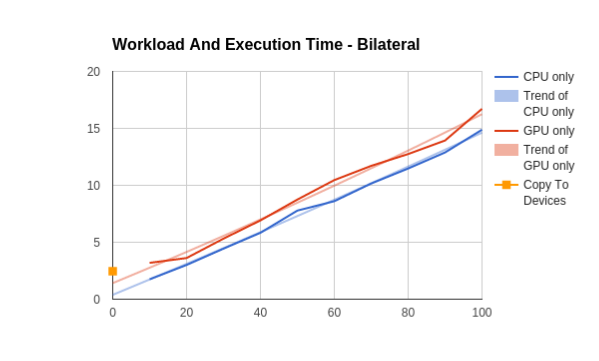
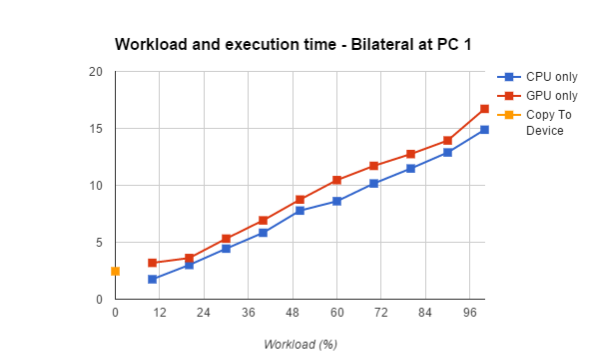
add new photos and Fluidic CL

diff --git a/index.html b/index.html
@@ -28,17 +28,23 @@
         </section>
         <section>
           <h1>Outline</h1>
-          <h3> </h3><a href="#/2">Introduction</a>
-          <h3> </h3><a href="#/3">Introduction-Halide</a>
-          <h3> </h3><a href="#/4">Introduction-OpenCL</a>
-          <h3> </h3><a href="#/5">System Architecture</a>
-          <h3> </h3><a href="#/6">Implement</a>
-          <h3> </h3><a href="#/7">Experiment Result</a>
-          <h3> </h3><a href="#/8">Conclusion</a>
+          <h3> </h3><a href="#/2">Motivation</a>
+          <h3> </h3><a href="#/3">Background</a>
+          <h3> </h3><a href="#/4">Implementation</a>
+          <h3> </h3><a href="#/5">Experiment Result</a>
+          <h3> </h3><a href="#/6">Conclusion</a>
         </section>
         <section>
           <section>
-            <h1>Introduction</h1>
+            <h1>Motivation</h1>
+          </section>
+          <section>
+            <h3>Halide is a new language</h3>
+            <h4>which is designed to make it <span class="fragment highlight-red"><strong>easier</strong></span> to write <span class="fragment highlight-blue"><strong>high-performance</strong></span> image processing code.</h4>
+          </section>
+          <section>
+            <h3>It can support CPU and GPU backend.</h3>
+            <h4>So we want to make a <span class="fragment highlight-blue"><strong>synergistic framework</strong></span> as Halide extension </h4>
           </section>
           <section>
             <h4>It’s several research target on synergistically computing </h4>
@@ -58,13 +64,15 @@
               <li class="fragment highlight-red">Time-consuming</li>
             </ul>
           </section>
-          <section>
-            <p>To solve this problem,<strong>I</strong> decide to use <strong>Halide</strong> a new language to reduce the difficulty of programing.</p>
-          </section>
         </section>
         <section>
           <section>
-            <h1>Introduction-Halide</h1>
+            <h1>Background </h1>
+            <ul> 
+              <li>Halide</li>
+              <li>OpenCL</li>
+              <li>Related work - FluidiCL</li>
+            </ul>
           </section>
           <section>
             <h2>Halide decouple algorithm from schedule</h2>
@@ -88,7 +96,7 @@
           </section>
           <section> 
             <h2>Native C++ Code</h2>
-            <pre><code class="cpp" data-trim contenteditable style="font-size: 18px;">
+            <pre><code class="cpp" data-trim contenteditable style="font-size: 14px;">
 Image&lt;uint16_t&gt; blur(Image&lt;uint16_t&gt; in) {
   Image&lt;uint16_t&gt; tmp(in.width()-8, in.height());
   Image&lt;uint16_t&gt; out(in.width()-8, in.height()-2);                    
@@ -104,7 +112,7 @@ Image&lt;uint16_t&gt; blur(Image&lt;uint16_t&gt; in) {
           </section>
           <section> 
             <h2>OpenMP Code</h2>
-            <pre><code class="cpp" data-trim contenteditable style="font-size: 20px;">
+            <pre><code class="cpp" data-trim contenteditable style="font-size: 14px;">
 Image&ltuint16_t&gt blur_fast(Image&ltuint16_t&gt in) {
     Image&ltuint16_t&gt out(in.width()-8, in.height()-2);
     begin_timing;
@@ -148,7 +156,7 @@ Image&ltuint16_t&gt blur_fast(Image&ltuint16_t&gt in) {
           </section>
           <section> 
             <h2>Halide Code</h2>
-            <pre><code class="cpp" data-trim contenteditable style="font-size: 20px;">
+            <pre><code class="cpp" data-trim contenteditable style="font-size: 14px;">
 ImageParam input(UInt(16), 2);
 Func blur_x("blur_x"), blur_y("blur_y");
 Var x("x"), y("y"), xi("xi"), yi("yi");
@@ -171,12 +179,10 @@ blur_y.compile_to_file("halide_blur", input);
             <h2>Halide Consumer/Producer Relastions</h2><img src="photos/HalideConsumerRelations.png" height="500px"/>
           </section>
           <section> 
-            <h2>Halide CodeGen Flow</h2><img src="photos/HalideCodegenFlow.png" height="500px"/>
+            <h2>Halide CodeGen Flow</h2><img src="photos/HalideCodeGenFlow.png" height="500px" style="Background:#FFFFFF"/>
           </section>
-        </section>
-        <section>
           <section>
-            <h1>Introduction-OpenCL</h1>
+            <h1>Background - OpenCL</h1>
             <h2>Base on Halide CodeGen</h2>
           </section>
           <section>
@@ -196,27 +202,29 @@ blur_y.compile_to_file("halide_blur", input);
               <li><strong>device_free </strong> : clReleaseMemObject.</li>
             </ol>
           </section>
-        </section>
-        <section>
-          <section>
-            <h1>System Architecture</h1>
-          </section>
           <section>
             <h3>OpenCL with Multi Device </h3><img src="photos/MultiDeviceOpenCL.jpg" height="500px"/>
           </section>
           <section>
-            <h3>Architecture of other FluidiCL </h3><img src="photos/FluidiCLArch.png" height="500px"/>
+            <h3>Related work - FluidiCL  </h3>
           </section>
           <section>
-            <h3>Architecture of My Work</h3><img src="photos/myArch.jpg" height="500px"/>
+            <h3>Architecture of FluidiCL </h3><img src="photos/FluidiCLArch.png" height="500px"/>
+          </section>
+          <section> 
+            <h3>kernel Execution</h3><img src="photos/FluidiCLKernelExecution.png"/>
           </section>
         </section>
         <section> 
           <section>
-            <h1>Implement Method</h1>
+            <h1>Implementation</h1>
           </section>
           <section>
-            <h3>Memory Management </h3><img src="photos/Implement-old.png" height="500px"/>
+            <h3>System Achitecture</h3><img src="photos/Framework-System Architecture.png" height="500px" style="Background:#FFFFFF"/>
+          </section>
+          <section><img src="photos/OpenCL Comparison.png"/></section>
+          <section>
+            <h3>Memory Management </h3><img src="photos/Implement-old.png" height="500px" style="background: #D8D8D8"/>
           </section>
           <section>
             <h3>Memory Management con'd</h3><img src="photos/Implement-new.png" height="250px"/>
@@ -229,11 +237,17 @@ blur_y.compile_to_file("halide_blur", input);
           </section>
           <section> 
             <h3>Usage</h3>
-            <pre><code class="cpp" data-trim contenteditable style="font-size: 20px;">
-local_laplacian_gpu(levels,alpha/(levels-1),beta,input,output);//Halide function
+            <pre><code class="cpp" data-trim contenteditable style="font-size: 14px;">
+//Halide Function
+local_laplacian_gpu(levels,alpha/(levels-1),beta,input,output); //Halide GPU Function
+local_laplacian_cpu(levels,alpha/(levels-1),beta,input,output); //Halide CPU Function
+</code></pre>
+            <pre><code class="cpp" data-trim contenteditable style="font-size: 14px;">
 //Static Dispatch
 StaticDispatch static(input,output);
 static.realize(local_laplacian_cpu,local_laplacian_gpu,workload,levels,alpha/(levels-1),beta);
+</code></pre>
+            <pre><code class="cpp" data-trim contenteditable style="font-size: 14px;">
 //Dynamic Dispatch
 DynamicDispatch dynamic(input,output);
 dynamic.realize(local_laplacian_cpu,local_laplacian_gpu,levels,alpha/(levels-1),beta);
@@ -362,6 +376,15 @@ for(int j= kernelStartY; j<= kernelEndY; j++)
           </section>
           <section>
             <h3>Execution of OpenCL API (Bilateral at PC 2)</h3><img src="photos/ExecutionTimeOfAPI(Bilateal @ PC2).png"/>
+          </section>
+          <section>
+            <h2>Dynamic Dispatch</h2>
+          </section>
+          <section>
+            <h3>Performance of Bilateral</h3><img src="photos/Performance of Bilateral.png"/>
+          </section>
+          <section>
+            <h3>Performance of Local Laplacian</h3><img src="photos/Performance of Local Laplacian.png"/>
           </section>
           <section> 
             <h2>CUDA V.S OpenCL</h2>
